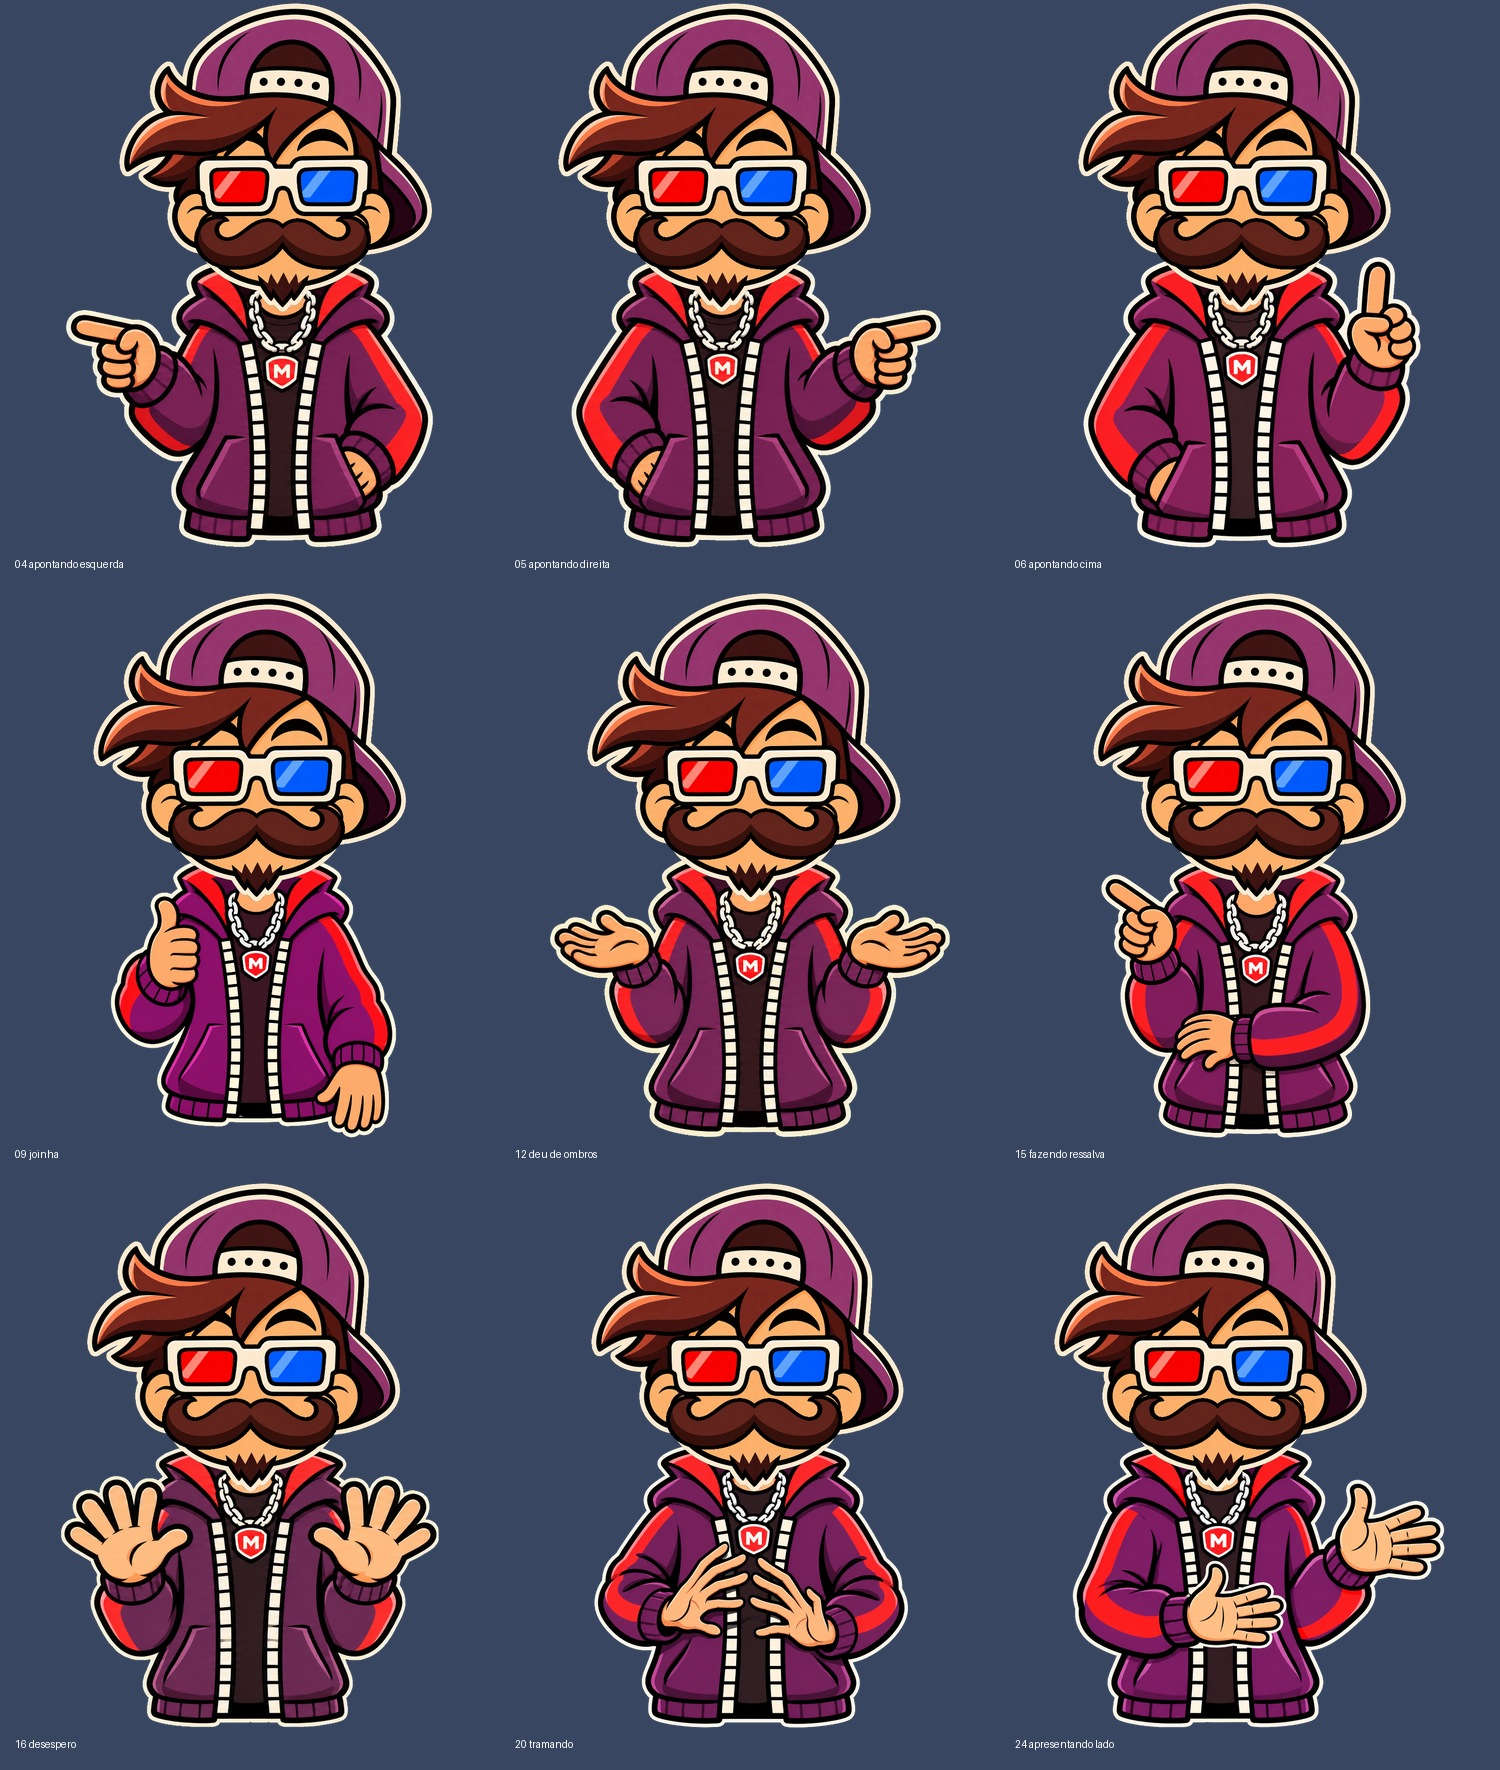
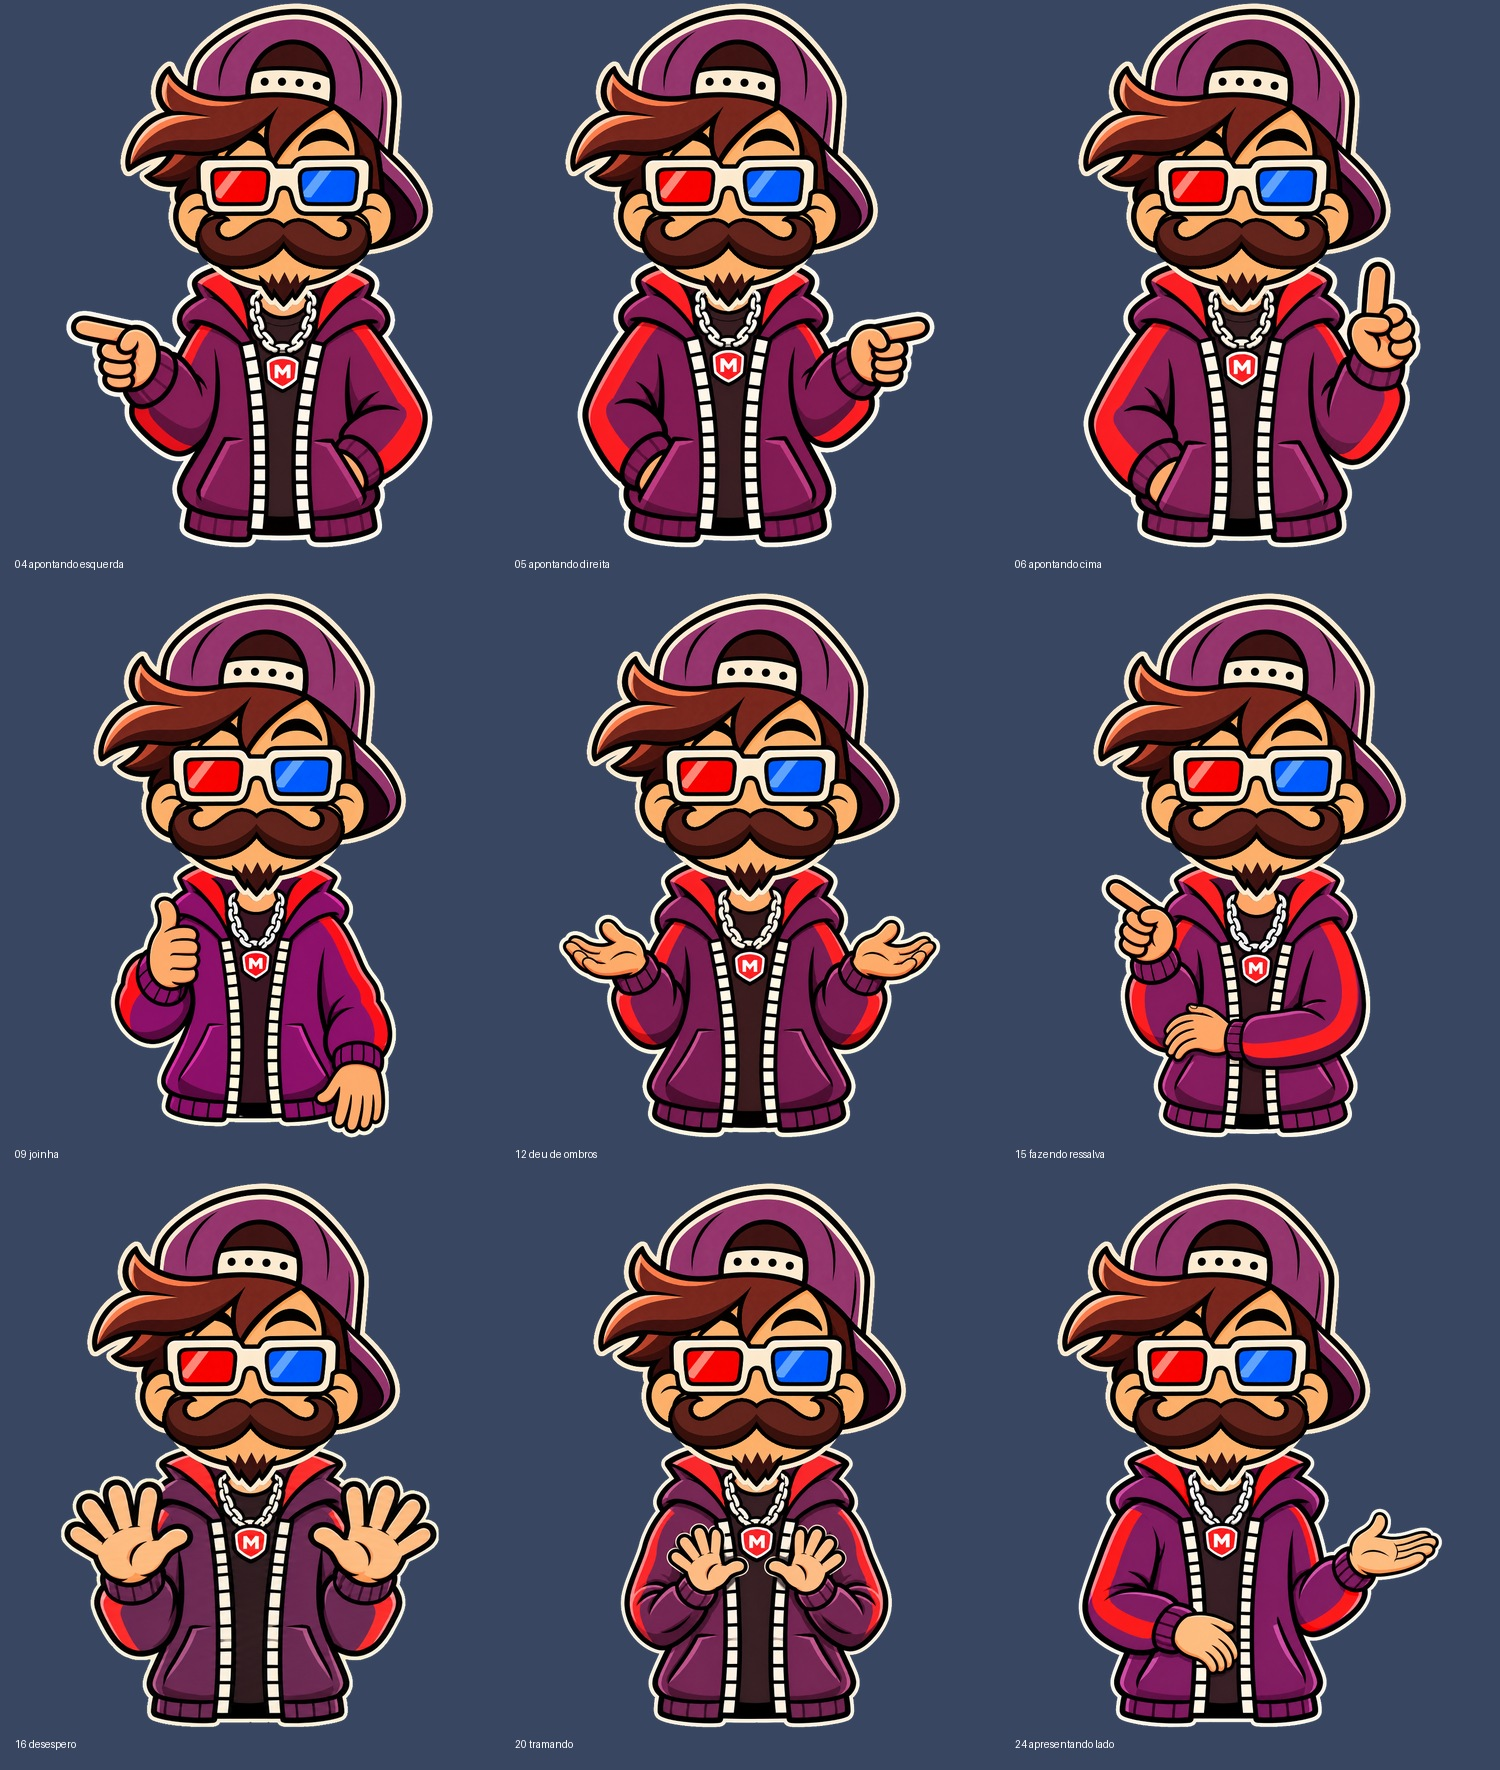
Correct Massacote hand anatomy and add close-up proof sheet

diff --git a/assets/personagens/massacote_tube_2d/poses_cinco_dedos/scripts/preparar.py b/assets/personagens/massacote_tube_2d/poses_cinco_dedos/scripts/preparar.py
@@ -134,15 +134,53 @@ def assemble():
     gallery.save(OUT/'Prancha_9_Poses.jpg',quality=93)
 
 
+def hand_sheet():
+    files=sorted(KIT.glob('Corpo_*.png'))
+    sheet=Image.new('RGB',(1620,1080),'#526079')
+    draw=ImageDraw.Draw(sheet)
+    for i,file in enumerate(files):
+        image=Image.open(file)
+        r,g,b,a=np.asarray(image,dtype='float32').transpose(2,0,1)
+        yy,xx=np.ogrid[:H,:W]
+        detected=(r>175)&(g>108)&(g<.91*r)&(b>.42*g)&(b<.94*g)&(r-b>46)&(a>240)
+        detected &= (yy>981) & ~((xx>440)&(xx<640)&(yy<1127))
+        pose=file.stem.split('_')[1]
+        if pose=='04':
+            detected &= xx<365
+        if pose in ('05','06'):
+            detected &= xx>700
+        if pose=='20':
+            detected &= yy>1120
+        # Aproxima apenas os componentes de uma mesma mão, como os dedos fechados.
+        connected=cv2.dilate(detected.astype('uint8'),np.ones((15,15),np.uint8))
+        n,_,stats,_=cv2.connectedComponentsWithStats(connected,8)
+        amount=1 if pose in ('04','05','06') else 2
+        top=sorted(range(1,n),key=lambda k:-stats[k,4])[:amount]
+        top=sorted([k for k in top if stats[k,4]>400],key=lambda k:stats[k,0])
+        assert 1<=len(top)<=2, file
+        gutter=22
+        panel_width=(504-gutter*(len(top)-1))//len(top)
+        x,y=i%3*540,i//3*360
+        for j,k in enumerate(top):
+            l,t,w,h,_=map(int,stats[k])
+            crop=image.crop((max(0,l-12),max(0,t-12),min(W,l+w+12),min(H,t+h+12)))
+            factor=min(panel_width/crop.width,296/crop.height)
+            crop=crop.resize((round(crop.width*factor),round(crop.height*factor)),Image.Resampling.LANCZOS)
+            at=x+18+j*(panel_width+gutter)+(panel_width-crop.width)//2
+            sheet.paste(crop,(at,y+12+(296-crop.height)//2),crop)
+        draw.text((x+18,y+325),file.stem.removeprefix('Corpo_').replace('_',' '),fill='white')
+    sheet.save(OUT/'Detalhes_das_maos.jpg',quality=95)
+
+
 def package():
-    paths=[*sorted(KIT.glob('*.png')),*sorted(FLAT.glob('*.png')),OUT/'Prancha_9_Poses.jpg']
-    assert len(paths)==21
+    paths=[*sorted(KIT.glob('*.png')),*sorted(FLAT.glob('*.png')),OUT/'Prancha_9_Poses.jpg',OUT/'Detalhes_das_maos.jpg']
+    assert len(paths)==22
     for p in paths:
         im=Image.open(p)
         if p.suffix=='.png':
             assert im.mode=='RGBA' and im.size==(W,H)
         im.verify()
-    result=OUT/'Massacote_2D_5_Dedos.zip'
+    result=OUT/'Massacote_2D_5_Dedos_Rev2.zip'
     with zipfile.ZipFile(result,'w',zipfile.ZIP_DEFLATED,compresslevel=4) as z:
         for p in paths:
             z.write(p,p.relative_to(OUT).as_posix())
@@ -153,4 +191,5 @@ def package():
 
 if __name__=='__main__':
     assemble()
+    hand_sheet()
     package()

diff --git a/assets/personagens/massacote_tube_2d/poses_cinco_dedos/README.md b/assets/personagens/massacote_tube_2d/poses_cinco_dedos/README.md
@@ -1,10 +1,11 @@
-# Massacote 2D com cinco dedos
+# Massacote 2D com cinco dedos · revisão 2
 
-- [Baixar as nove poses e as camadas](output/Massacote_2D_5_Dedos.zip)
-- [Ver a prancha com as nove poses](output/Prancha_9_Poses.jpg)
+- [Baixar as nove poses e as camadas](output/Massacote_2D_5_Dedos_Rev2.zip)
+- [Ver a prancha das poses montadas](output/Prancha_9_Poses.jpg)
+- [Conferir as mãos em close](output/Detalhes_das_maos.jpg)
 
-Nove corpos regenerados para os gestos do banco ativo. As poses montadas usam PNG com transparência em 1080 × 1920. O pacote inclui os corpos regenerados e as peças compartilhadas de cabeça e bigode, registradas no mesmo canvas.
+Nove poses em PNG com transparência, em 1080 × 1920. O ZIP inclui nove corpos, cabeça e bigode separados, com o mesmo alinhamento das poses montadas.
 
-Foram reavaliados o polegar, a separação dos quatro dedos e as mãos em escorço. Nas três poses de apontar, a mão de apoio está parcialmente dentro do bolso. O gesto de tramar abre as mãos para tornar as pontas de todos os dedos legíveis.
+Nesta revisão, as poses 04 e 05 mostram só o pulso da mão de apoio na boca do bolso. Os gestos 12, 15, 20 e 24 foram redesenhados para ajustar a posição do polegar, a curvatura dos dedos e a ligação entre mão e punho. A pose de tramando aproxima duas mãos abertas diante do peito. A de apresentação usa uma palma voltada para cima e outra mão relaxada abaixo. A prancha de detalhes é recortada dos próprios PNGs entregues.
 
-As artes da geração estão em `fontes/`. O script `scripts/preparar.py` prepara o alfa, alinha os corpos à cabeça compartilhada e verifica os PNGs e o ZIP. O encaixe de cada corpo e os hashes estão em [registro.json](registro.json).
+As artes de origem estão em fontes. O script scripts/preparar.py prepara a transparência, alinha as peças, monta as pranchas e verifica os PNGs e o ZIP. [Registro de encaixe e hashes](registro.json)

diff --git a/AGENTS.md b/AGENTS.md
@@ -1,5 +1,7 @@
 # Produção de shorts
 
+- **Revisão 2 das mãos do Massacote 2D:** o usuário rejeitou contagens ambíguas e gestos estranhos no primeiro pacote de nove poses. Em `assets/personagens/massacote_tube_2d/poses_cinco_dedos/` foram corrigidas as poses 04, 05, 12, 15, 20 e 24. As mãos abertas e fechadas em uso foram conferidas no PNG final, com prancha ampliada. A mão de apoio das poses de apontar aparece como pulso parcialmente oculto no bolso. O ZIP atual é `Massacote_2D_5_Dedos_Rev2.zip`. O pedido abrange o banco de poses.
+
 - **Massacote 2D com cinco dedos:** o usuário pediu regenerar as nove poses do banco ativo e confirmou que o WFP de Garfield era só referência do feedback, com escopo restrito às poses. As novas artes 2D estão em `assets/personagens/massacote_tube_2d/poses_cinco_dedos/`, com nove PNGs montados, nove corpos, cabeça e bigode em camadas e ZIP. Os dedos visíveis foram conferidos, incluindo as mãos fechadas. As poses de apontar têm mão de apoio parcialmente no bolso. Usar esta biblioteca como ponto de partida para o Massacote 2D em novas edições.
 
 - **Primeiro vídeo horizontal da nova rotina do Massacote Tube:** o usuário autorizou produzir O Novo Garfield em 16:9, até 3 minutos. A ideia de postar cerca de dois por dia orienta o formato. A produção ativa deste pedido é apenas o primeiro vídeo em `shorts/012-o-novo-garfield/`. O ZIP original do Drive trouxe narração de 148,236625 s, imagens e a edição de Vailskibum como referência de pauta. O MP4 de 148,267 s e o ZIP Filmora usam Massacote 2D, mídia com movimentos de entrada e saída, efeitos nativos no WFP, áudio PCM 16-bit e voz integral. A Paramount confirmou 11/12/2026 e os curtas da Nicktoons a partir de 23/11. As fontes, decisões e verificações ficam no README da produção. Filmora nativo ainda aguarda teste.
